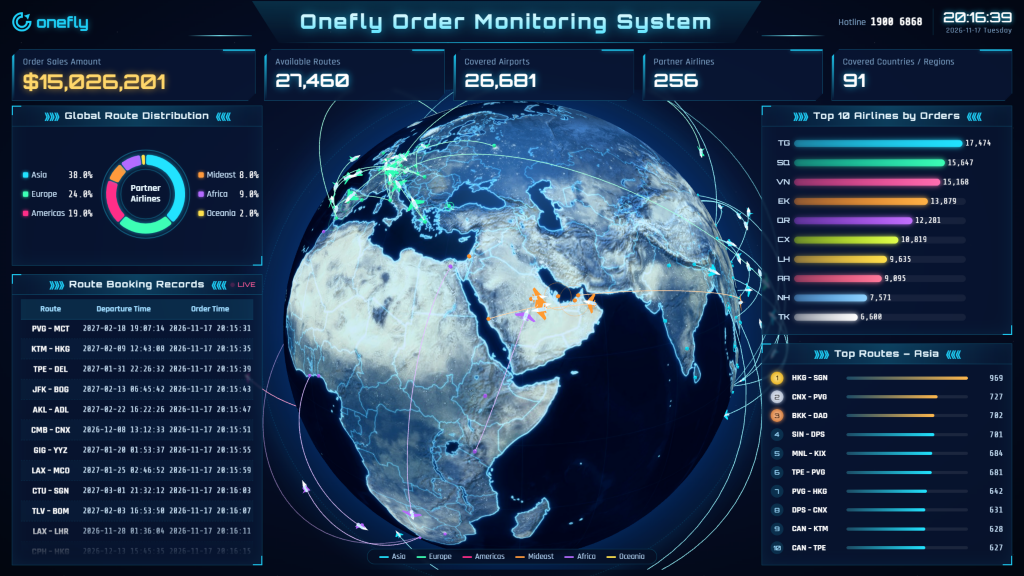
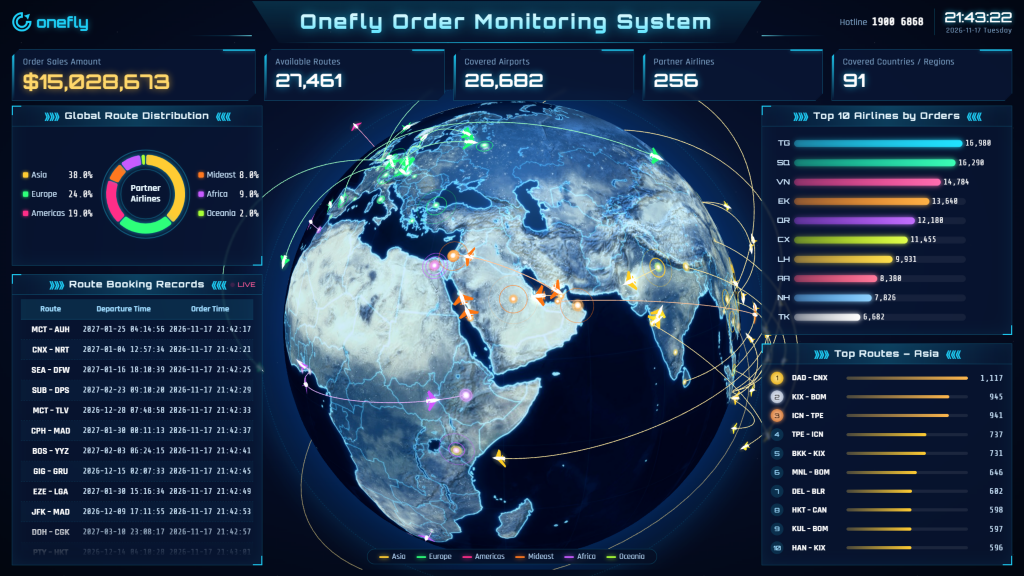
feat: glowing bullseye destination beacons & high-contrast non-blue airplane palette

diff --git a/js/main.js b/js/main.js
@@ -95,19 +95,20 @@ const world = Globe()(globeEl)
   .showAtmosphere(true)
   .atmosphereColor('#3eb4ff')
   .atmosphereAltitude(0.20)
-  // airports
-  .pointsData(AIRPORTS)
-  .pointLat('lat').pointLng('lng')
-  .pointColor((d) => REGIONS[d.region].color)
-  .pointAltitude(0.006)
-  .pointRadius(0.32)
-  .pointsMerge(true)
-  // pulse rings
+  // pulse rings on arrival / new booking
   .ringsData(rings)
-  .ringColor((d) => (t) => `rgba(${d.rgb},${1 - t})`)
-  .ringMaxRadius(3.4)
-  .ringPropagationSpeed(2.4)
-  .ringRepeatPeriod(700);
+  .ringColor((d) => (t) => `rgba(${d.rgb},${Math.pow(1 - t, 0.7)})`)
+  .ringMaxRadius(4.2)
+  .ringPropagationSpeed(2.6)
+  .ringRepeatPeriod(650);
+
+// Sync bottom legend pill with REGIONS colors + neon glow
+const captionEl = $('#globe-caption');
+if (captionEl) {
+  captionEl.innerHTML = regionKeys
+    .map((r) => `<span><i style="background:${REGIONS[r].color};box-shadow:0 0 8px ${REGIONS[r].color}"></i>${r}</span>`)
+    .join('');
+}
 
 // Larger globe view filling the center stage
 world.pointOfView({ lat: 20, lng: 30, altitude: 1.46 }, 0);
@@ -138,6 +139,126 @@ controls.autoRotateSpeed = -0.55; // rotate east -> west
 controls.enableZoom = false;
 
 const hexToRgb = (h) => [1, 3, 5].map((i) => parseInt(h.slice(i, i + 2), 16)).join(',');
+
+// ===================== Glowing Airport Beacons & Destination Targets =====================
+const texCache = new Map();
+
+function getBeaconTexture(colorHex) {
+  const key = 'beacon_' + colorHex;
+  if (texCache.has(key)) return texCache.get(key);
+  const c = document.createElement('canvas');
+  c.width = 128; c.height = 128;
+  const ctx = c.getContext('2d');
+
+  // Soft outer neon halo + saturated color ring + bright white core
+  const grad = ctx.createRadialGradient(64, 64, 4, 64, 64, 62);
+  grad.addColorStop(0, '#ffffff');
+  grad.addColorStop(0.18, '#ffffff');
+  grad.addColorStop(0.32, colorHex);
+  grad.addColorStop(0.55, colorHex + 'cc');
+  grad.addColorStop(0.80, colorHex + '44');
+  grad.addColorStop(1, colorHex + '00');
+  ctx.fillStyle = grad;
+  ctx.beginPath();
+  ctx.arc(64, 64, 62, 0, Math.PI * 2);
+  ctx.fill();
+
+  // Subtle dark contrast rim + crisp colored outer ring so it pops even on bright deserts
+  ctx.strokeStyle = 'rgba(4, 14, 34, 0.45)';
+  ctx.lineWidth = 6;
+  ctx.beginPath();
+  ctx.arc(64, 64, 28, 0, Math.PI * 2);
+  ctx.stroke();
+
+  ctx.strokeStyle = colorHex;
+  ctx.lineWidth = 3.5;
+  ctx.beginPath();
+  ctx.arc(64, 64, 28, 0, Math.PI * 2);
+  ctx.stroke();
+
+  const tex = new THREE.CanvasTexture(c);
+  texCache.set(key, tex);
+  return tex;
+}
+
+function getTargetTexture(colorHex) {
+  const key = 'target_' + colorHex;
+  if (texCache.has(key)) return texCache.get(key);
+  const c = document.createElement('canvas');
+  c.width = 128; c.height = 128;
+  const ctx = c.getContext('2d');
+
+  // Outer radiant bloom
+  const grad = ctx.createRadialGradient(64, 64, 4, 64, 64, 62);
+  grad.addColorStop(0, '#ffffff');
+  grad.addColorStop(0.18, '#ffffff');
+  grad.addColorStop(0.32, colorHex);
+  grad.addColorStop(0.72, colorHex + '55');
+  grad.addColorStop(1, colorHex + '00');
+  ctx.fillStyle = grad;
+  ctx.beginPath();
+  ctx.arc(64, 64, 62, 0, Math.PI * 2);
+  ctx.fill();
+
+  // Outer bullseye target ring
+  ctx.strokeStyle = colorHex;
+  ctx.lineWidth = 5;
+  ctx.beginPath();
+  ctx.arc(64, 64, 44, 0, Math.PI * 2);
+  ctx.stroke();
+
+  // Inner bright white ring
+  ctx.strokeStyle = '#ffffff';
+  ctx.lineWidth = 3;
+  ctx.beginPath();
+  ctx.arc(64, 64, 22, 0, Math.PI * 2);
+  ctx.stroke();
+
+  const tex = new THREE.CanvasTexture(c);
+  texCache.set(key, tex);
+  return tex;
+}
+
+function getPlaneAuraTexture(colorHex) {
+  const key = 'aura_' + colorHex;
+  if (texCache.has(key)) return texCache.get(key);
+  const c = document.createElement('canvas');
+  c.width = 64; c.height = 64;
+  const ctx = c.getContext('2d');
+  const grad = ctx.createRadialGradient(32, 32, 2, 32, 32, 30);
+  grad.addColorStop(0, colorHex + 'aa');
+  grad.addColorStop(0.45, colorHex + '44');
+  grad.addColorStop(1, colorHex + '00');
+  ctx.fillStyle = grad;
+  ctx.fillRect(0, 0, 64, 64);
+  const tex = new THREE.CanvasTexture(c);
+  texCache.set(key, tex);
+  return tex;
+}
+
+// Render bright self-illuminated airport beacons across the globe
+const beaconsGroup = new THREE.Group();
+world.scene().add(beaconsGroup);
+const beaconGeo = new THREE.PlaneGeometry(2.6, 2.6);
+
+for (const ap of AIRPORTS) {
+  const colorHex = REGIONS[ap.region].color;
+  const mat = new THREE.MeshBasicMaterial({
+    map: getBeaconTexture(colorHex),
+    transparent: true,
+    opacity: 0.95,
+    depthTest: true,
+    depthWrite: false,
+    polygonOffset: true,
+    polygonOffsetFactor: -2,
+    side: THREE.DoubleSide,
+  });
+  const m = new THREE.Mesh(beaconGeo, mat);
+  const pos = world.getCoords(ap.lat, ap.lng, 0.004);
+  m.position.set(pos.x, pos.y, pos.z);
+  m.lookAt(pos.x * 2, pos.y * 2, pos.z * 2);
+  beaconsGroup.add(m);
+}
 
 // ===================== 3D Planes & Trailing Arcs =====================
 // Airplanes lead the flight path. The trailing arc grows out behind the plane's tail.
@@ -204,8 +325,22 @@ function buildPlaneMesh(colorHex) {
   const bodyGeo = new THREE.CylinderGeometry(0.7, 0.6, 2.6, 7);
   bodyGeo.rotateX(Math.PI / 2);
   bodyGeo.translate(0, 0, -1.3);
-  const bodyMat = new THREE.MeshBasicMaterial({ color: '#cbe9ff' });
+  const bodyMat = new THREE.MeshBasicMaterial({ color: '#ffffff' });
   group.add(new THREE.Mesh(bodyGeo, bodyMat));
+
+  // Soft neon aura beneath the aircraft so it stands out sharply against coastlines & terrain
+  const auraGeo = new THREE.PlaneGeometry(8.2, 8.2);
+  auraGeo.rotateX(Math.PI / 2);
+  auraGeo.translate(0, -0.15, -0.6);
+  const auraMat = new THREE.MeshBasicMaterial({
+    map: getPlaneAuraTexture(colorHex),
+    transparent: true,
+    opacity: 0.75,
+    blending: THREE.AdditiveBlending,
+    depthWrite: false,
+    side: THREE.DoubleSide,
+  });
+  group.add(new THREE.Mesh(auraGeo, auraMat));
 
   // Swept wings (oriented in X-Z plane)
   const wingShape = new THREE.Shape();
@@ -260,11 +395,29 @@ const planesGroup = new THREE.Group();
 world.scene().add(planesGroup);
 
 const SEGMENTS = 50;
+const destTargetGeo = new THREE.PlaneGeometry(3.8, 3.8);
 
 function createPlane(arc, colorHex, isInitial) {
   const { curve, distance } = makeArcCurve(arc.startLat, arc.startLng, arc.endLat, arc.endLng);
   const mesh = buildPlaneMesh(colorHex);
   planesGroup.add(mesh);
+
+  // Glowing pulsing destination bullseye at arc.to
+  const destMat = new THREE.MeshBasicMaterial({
+    map: getTargetTexture(colorHex),
+    transparent: true,
+    opacity: 0.95,
+    depthTest: true,
+    depthWrite: false,
+    polygonOffset: true,
+    polygonOffsetFactor: -3,
+    side: THREE.DoubleSide,
+  });
+  const destMesh = new THREE.Mesh(destTargetGeo, destMat);
+  const dPos = world.getCoords(arc.endLat, arc.endLng, 0.005);
+  destMesh.position.set(dPos.x, dPos.y, dPos.z);
+  destMesh.lookAt(dPos.x * 2, dPos.y * 2, dPos.z * 2);
+  planesGroup.add(destMesh);
 
   const curvePoints = curve.getPoints(SEGMENTS);
   const maxPts = SEGMENTS + 2;
@@ -277,7 +430,7 @@ function createPlane(arc, colorHex, isInitial) {
   const lineMat = new THREE.LineBasicMaterial({
     color: colorHex,
     transparent: true,
-    opacity: 0.92,
+    opacity: 0.95,
     depthTest: true,
   });
   const lineMesh = new THREE.Line(lineGeo, lineMat);
@@ -287,7 +440,7 @@ function createPlane(arc, colorHex, isInitial) {
   const coreMat = new THREE.LineBasicMaterial({
     color: '#ffffff',
     transparent: true,
-    opacity: 0.5,
+    opacity: 0.55,
     depthTest: true,
   });
   const coreMesh = new THREE.Line(lineGeo, coreMat);
@@ -298,10 +451,12 @@ function createPlane(arc, colorHex, isInitial) {
     curve,
     curvePoints,
     mesh,
+    destMesh,
     lineMesh,
     coreMesh,
     positions,
     t: isInitial ? Math.random() : 0,
+    phase: Math.random() * Math.PI * 2,
     speed: 0.00014 + (1 / (4500 + distance * 3600)),
     colorHex,
   };
@@ -315,12 +470,14 @@ function removePlane(arc) {
   const idx = planes.indexOf(plane);
   if (idx !== -1) planes.splice(idx, 1);
   planesGroup.remove(plane.mesh);
+  planesGroup.remove(plane.destMesh);
   planesGroup.remove(plane.lineMesh);
   planesGroup.remove(plane.coreMesh);
   plane.mesh.traverse((o) => {
     if (o.geometry) o.geometry.dispose();
     if (o.material) o.material.dispose();
   });
+  plane.destMesh.material.dispose();
   plane.lineMesh.geometry.dispose();
   plane.lineMesh.material.dispose();
   plane.coreMesh.geometry.dispose();
@@ -397,6 +554,12 @@ function animatePlanes(now) {
     p.lineMesh.geometry.setDrawRange(0, count);
     p.lineMesh.material.opacity = Math.min(0.95, fade * 1.2);
     p.coreMesh.material.opacity = Math.min(0.55, fade * 0.8);
+
+    // 4. Pulse destination bullseye beacon so arrival points shine clearly
+    const approachBoost = p.t > 0.65 ? (p.t - 0.65) / 0.35 : 0;
+    const pulse = 0.88 + 0.25 * Math.sin(now * 0.006 + p.phase) + 0.35 * approachBoost;
+    p.destMesh.scale.set(pulse, pulse, 1);
+    p.destMesh.material.opacity = Math.min(1.0, 0.72 + 0.28 * approachBoost);
   }
   requestAnimationFrame(animatePlanes);
 }
@@ -415,7 +578,7 @@ function addArc(b, isInitial) {
 }
 function addRing(ap) {
   rings.push({ lat: ap.lat, lng: ap.lng, rgb: hexToRgb(REGIONS[ap.region].color) });
-  if (rings.length > 8) rings.shift();
+  if (rings.length > 14) rings.shift();
   world.ringsData([...rings]);
 }
 for (let i = 0; i < 65; i++) addArc(genBooking(), true);

diff --git a/index.html b/index.html
@@ -61,13 +61,13 @@
       <section class="center">
         <div id="globe"></div>
         <div class="globe-ring"></div>
-        <div class="globe-caption">
-          <span><i style="background:#22e3ff"></i>Asia</span>
-          <span><i style="background:#3dffb5"></i>Europe</span>
+        <div class="globe-caption" id="globe-caption">
+          <span><i style="background:#ffcc33"></i>Asia</span>
+          <span><i style="background:#2eff7a"></i>Europe</span>
           <span><i style="background:#ff2e88"></i>Americas</span>
-          <span><i style="background:#ff9a3c"></i>Mideast</span>
-          <span><i style="background:#b46bff"></i>Africa</span>
-          <span><i style="background:#ffe14d"></i>Oceania</span>
+          <span><i style="background:#ff781f"></i>Mideast</span>
+          <span><i style="background:#c85bff"></i>Africa</span>
+          <span><i style="background:#a8ff35"></i>Oceania</span>
         </div>
       </section>
 

diff --git a/js/data.js b/js/data.js
@@ -1,11 +1,11 @@
 // ===== Static reference data =====
 const REGIONS = {
-  Asia:     { color: '#22e3ff', weight: 38 },
-  Europe:   { color: '#3dffb5', weight: 24 },
+  Asia:     { color: '#ffcc33', weight: 38 },
+  Europe:   { color: '#2eff7a', weight: 24 },
   Americas: { color: '#ff2e88', weight: 19 },
-  Mideast:  { color: '#ff9a3c', weight: 8 },
-  Africa:   { color: '#b46bff', weight: 9 },
-  Oceania:  { color: '#ffe14d', weight: 2 },
+  Mideast:  { color: '#ff781f', weight: 8 },
+  Africa:   { color: '#c85bff', weight: 9 },
+  Oceania:  { color: '#a8ff35', weight: 2 },
 };
 
 // [IATA, lat, lng, region]
